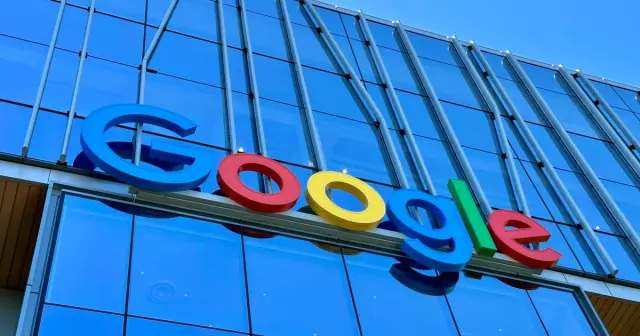
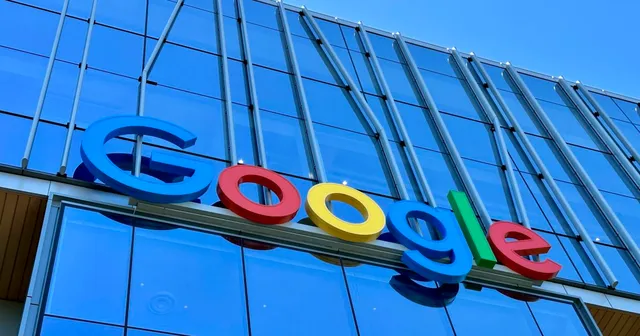
Update SEO/link audits and fix content issues (Deep Review ordering, localize hotlinked hero)

diff --git a/_posts/2026-11-21-what-is-google-deep-review-guide.md b/_posts/2026-11-21-what-is-google-deep-review-guide.md
@@ -140,6 +140,37 @@ Stress-test a pitch deck narrative so the numbers on slide 8 match the story on 
 
 Many people will use both: a chat assistant for drafting and fixing, and Deep Review as a final critical check.
 
+
+## How to Use Deep Review: Step by Step
+
+### Step 1: Prepare the document
+
+Save your document as a PDF or plain text file. Give it a clean title and make sure charts, tables and references are readable. Remove anything confidential you don't need to share.
+
+### Step 2: Open the tool
+
+Go to Google Deep Review and follow the on-screen prompts.
+
+### Step 3: Upload
+
+Select your PDF and click Upload. After submission, the results appear in the Your documents table once they're ready. Long documents take a while, so don't expect an instant answer.
+
+### Step 4: Decide on free or API access
+
+For one or two important documents a week, the free tier is plenty. If you need heavier settings, more volume or programmatic checks, connect a Gemini API key. Google's documentation points to its [Gemini API key page](https://ai.google.dev/gemini-api/docs/api-key) for setup.
+
+### Step 5: Read the review with a critical eye
+
+Sort the findings into three buckets:
+
+1. **Real errors:** math mistakes, contradictions, wrong figures. Fix these first.
+2. **Weak spots:** unsupported claims or unclear passages. Add evidence or rewrite.
+3. **Noise:** points that don't apply or misread your intent. Skip them.
+
+### Step 6: Verify before you change anything important
+
+Check any flagged fact or number against your original source. AI review tools can be wrong, and Google itself says final judgment stays with people.
+
 ## Mistakes to Avoid
 
 Treating it as legal or financial advice. It flags issues. A professional makes the call.
@@ -220,32 +251,3 @@ Use it as a smart reviewer, not a final authority.
 | Financial projections and pricing documents | Real-time legal or tax decisions |
 | Technical documentation and SOPs | Keyword research or ranking analysis |
 
-## How to Use Deep Review: Step by Step
-
-### Step 1: Prepare the document
-
-Save your document as a PDF or plain text file. Give it a clean title and make sure charts, tables and references are readable. Remove anything confidential you don't need to share.
-
-### Step 2: Open the tool
-
-Go to Google Deep Review and follow the on-screen prompts.
-
-### Step 3: Upload
-
-Select your PDF and click Upload. After submission, the results appear in the Your documents table once they're ready. Long documents take a while, so don't expect an instant answer.
-
-### Step 4: Decide on free or API access
-
-For one or two important documents a week, the free tier is plenty. If you need heavier settings, more volume or programmatic checks, connect a Gemini API key. Google's documentation points to its [Gemini API key page](https://ai.google.dev/gemini-api/docs/api-key) for setup.
-
-### Step 5: Read the review with a critical eye
-
-Sort the findings into three buckets:
-
-1. **Real errors:** math mistakes, contradictions, wrong figures. Fix these first.
-2. **Weak spots:** unsupported claims or unclear passages. Add evidence or rewrite.
-3. **Noise:** points that don't apply or misread your intent. Skip them.
-
-### Step 6: Verify before you change anything important
-
-Check any flagged fact or number against your original source. AI review tools can be wrong, and Google itself says final judgment stays with people.

diff --git a/LINKS_CONSISTENCY_AUDIT.md b/LINKS_CONSISTENCY_AUDIT.md
@@ -3,6 +3,15 @@
 **Audit date:** 26 November 2026 (Asia/Kolkata) · **Source of truth:** repository working copy + live spot-checks via browser
 **Method:** all links extracted from `_posts`, `_includes`, `_layouts`, `_data`, root files → internal links resolved against the repo file map; cross-domain F9XR URLs live-checked via in-browser `fetch()`; external third-party URLs could **not** be bulk-checked (sandbox blocks outbound HTTPS from shell processes — control test to google.com also failed). External-link status is therefore **untested**, not "passing".
 
+## Update — 27 November 2026
+
+- **B1 (Ahrefs 640 webp 404):** Fixed earlier; asset present in repo.
+- **B2 (feed.json raw Liquid/BOM):** Fixed; live `https://f9xr.org/articles/feed.json` now returns HTTP 200 with valid JSON Feed.
+- **C1 (stale live inventory/cache):** Resolved. Live sitemap/feed now include recent posts through 2026-11-27, including the imprint, mobile SEO audit, and original data backlinks articles; all three return HTTP 200.
+- **C3 (Unsplash hero hotlink):** Fixed. `2026-10-02-google-ai-content-guidance-fact-check-update.md` now uses self-hosted `assets/post-images/google-ai-content-guidance-fact-check-update.webp` (+ 640 variant) with attribution preserved in `image_credit`.
+- **Build/deploy blockers fixed:** `2026-11-22-mobile-seo-audit-new-wordpress-site-guide.md` YAML description quoted (restored Jekyll build); audit/report docs excluded in `_config.yml` to prevent GitHub Pages Liquid parsing failures.
+- **Remaining owner decisions:** C2 Pinterest (add to `sameAs`/footer or remove config), C4 category/taxonomy consolidation, and periodic external link crawling from a network-enabled environment.
+
 ---
 
 ## 1. Broken-link audit results

diff --git a/SEO_GEO_AI_AUDIT.md b/SEO_GEO_AI_AUDIT.md
@@ -10,6 +10,15 @@
 
 ---
 
+## Update — 27 November 2026
+
+- **T1 feed.json:** Fixed. Live `https://f9xr.org/articles/feed.json` returns HTTP 200 with valid JSON Feed content.
+- **T2 Organization JSON-LD:** Current `_includes/head.html` Organization block is syntactically valid; keep rendered JSON-LD parse tests in CI to prevent regressions.
+- **T3/T4 deployment/article metadata:** Nov 22, Nov 24, and Nov 27 posts are live (HTTP 200) and present in live sitemap/feed. Mobile SEO audit YAML description was quoted to restore GitHub Pages builds; audit/report docs were excluded in `_config.yml`.
+- **T10 Deep Review ordering:** Moved "How to Use Deep Review: Step by Step" before "Mistakes to Avoid" so substantive how-to content appears before takeaways/conclusion.
+- **C3/LINKS C3 hotlinked hero:** Localized `2026-10-02-google-ai-content-guidance-fact-check-update.md` hero to self-hosted WEBP (+ 640 variant) with attribution preserved.
+- **Still open / owner-dependent:** GSC/Bing/CWV/backlink/AI-citation baselines, LocalBusiness entity factual validation (T6/T7 in report), taxonomy consolidation, analytics/privacy tag review, and external link crawl from a network-enabled environment.
+
 ## Dashboard summary
 
 | KPI | Assessment | Evidence / caveat |

diff --git a/_posts/2026-10-02-google-ai-content-guidance-fact-check-update.md b/_posts/2026-10-02-google-ai-content-guidance-fact-check-update.md
@@ -2,7 +2,8 @@
 layout: post
 title: "Google AI Content Guidance: Fact-Check by Hand"
 description: "Google AI content guidance now says fact-check by hand. What changed on October 1, 2026, and the review workflow worth putting in place."
-image: "https://images.unsplash.com/photo-1688235142578-c4e1523c6347?q=80&w=2232&auto=format&fit=crop&ixlib=rb-4.1.0&ixid=M3wxMjA3fDB8MHxwaG90by1wYWdlfHx8fGVufDB8fHx8fA%3D%3D"
+image: "https://f9xr.org/articles/assets/post-images/google-ai-content-guidance-fact-check-update.webp"
+image_alt: "Google logo on a building, representing Google AI content guidance and fact-checking"
 image_width: 1200
 image_height: 630
 image_credit: "Photo by <a href=\"https://unsplash.com/@dyno8426?utm_source=unsplash&amp;utm_medium=referral&amp;utm_content=creditCopyText\" target=\"_blank\" rel=\"noopener noreferrer\">Adarsh Chauhan</a> on <a href=\"https://unsplash.com/photos/the-google-logo-is-displayed-on-the-side-of-a-building-r-oebX7qWxM?utm_source=unsplash&amp;utm_medium=referral&amp;utm_content=creditCopyText\" target=\"_blank\" rel=\"noopener noreferrer\">Unsplash</a>"
